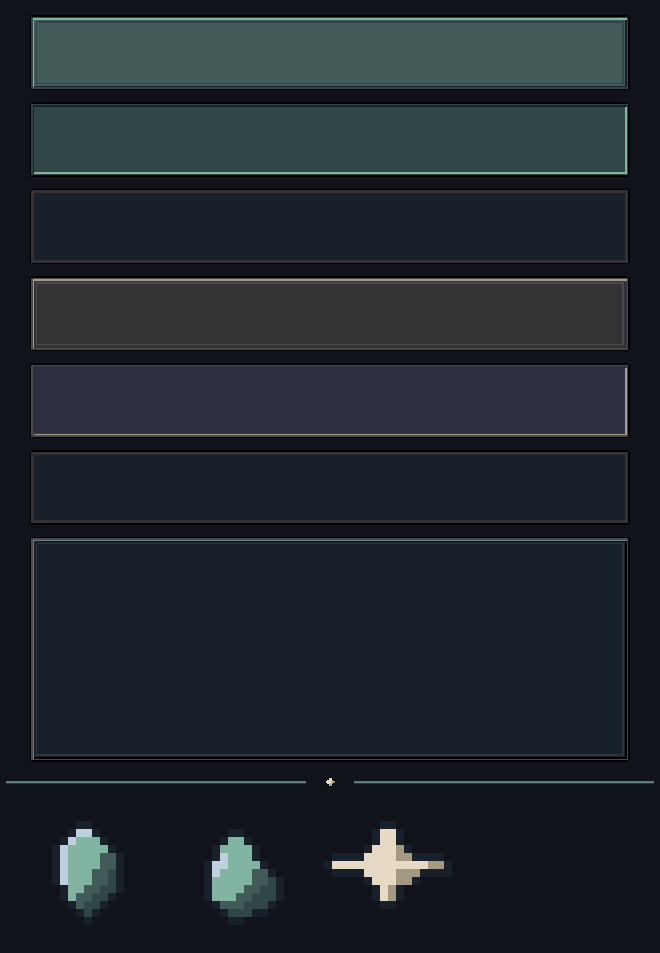
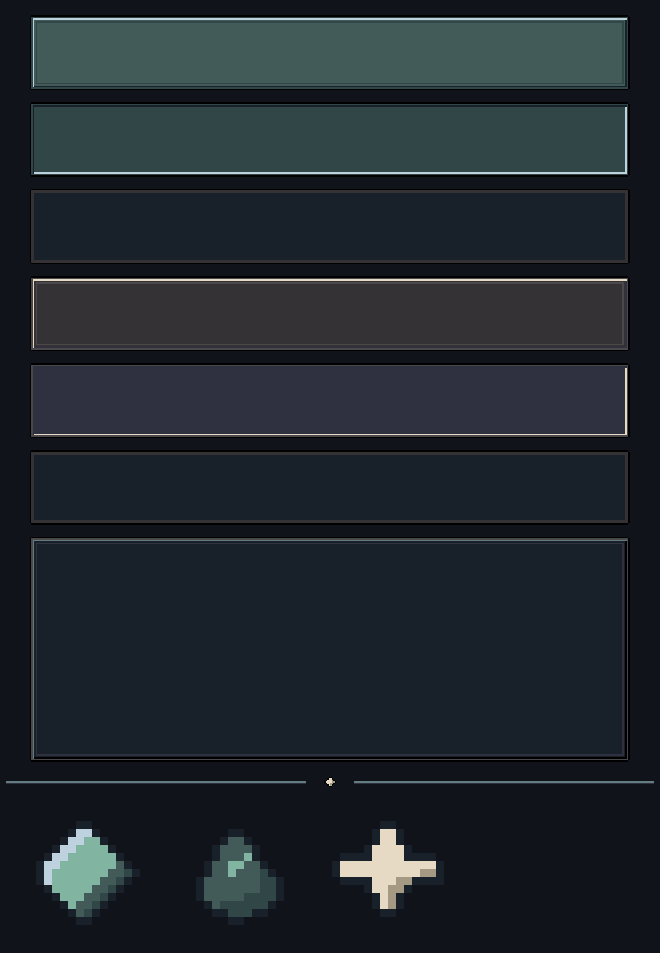
art: ui_kit candidato v001b com ícones distintos e mais contraste

diff --git a/tools/art/build_ui_kit.py b/tools/art/build_ui_kit.py
@@ -60,13 +60,13 @@ DISABLED = dict(outline=BLACK, ring="#353235", hi="#353235", sh="#353235", fill=
 
 BUTTONS = {
     "button_primary": {
-        "normal": dict(outline=BLACK, ring="#314646", hi="#81b5a2", sh="#182029", fill="#425a58", inner="#314646"),
-        "pressed": dict(outline=BLACK, ring="#314646", hi="#182029", sh="#81b5a2", fill="#314646", inner=None),
+        "normal": dict(outline=BLACK, ring="#314646", hi="#bdd2de", sh="#182029", fill="#425a58", inner="#314646"),
+        "pressed": dict(outline=BLACK, ring="#314646", hi="#182029", sh="#bdd2de", fill="#314646", inner=None),
         "disabled": DISABLED,
     },
     "button_secondary": {
-        "normal": dict(outline=BLACK, ring="#4a484a", hi="#a49983", sh="#2f3140", fill="#353235", inner="#4a484a"),
-        "pressed": dict(outline=BLACK, ring="#4a484a", hi="#2f3140", sh="#a49983", fill="#2f3140", inner=None),
+        "normal": dict(outline=BLACK, ring="#4a484a", hi="#e6dac5", sh="#2f3140", fill="#353235", inner="#4a484a"),
+        "pressed": dict(outline=BLACK, ring="#4a484a", hi="#2f3140", sh="#e6dac5", fill="#2f3140", inner=None),
         "disabled": DISABLED,
     },
 }
@@ -102,56 +102,59 @@ def divider() -> Image.Image:
 
 ICON_COLORS = {"o": "#182029", "a": "#bdd2de", "b": "#81b5a2", "c": "#425a58", "d": "#314646", "w": "#e6dac5", "g": "#a49983"}
 ICONS = {
+    # Fragmento: losango claro e brilhante (predomina a/b).
     "icon_fragment": [
         "................",
         ".......oo.......",
         "......oaao......",
-        ".....oabbbo.....",
-        "....oabbbbbo....",
-        "....oabbbbcco...",
-        "....oabbbbcco...",
-        "....oabbbccdo...",
-        "....oabbbccdo...",
-        ".....obbccddo...",
-        ".....obccddo....",
-        "......ocddo.....",
-        ".......odo......",
-        "........o.......",
+        ".....oaabbo.....",
+        "....oaabbbbo....",
+        "...oaabbbbbbo...",
+        "..oaabbbbbbbco..",
+        "..oabbbbbbbccdo.",
+        "..oabbbbbbccdo..",
+        "...obbbbbccdo...",
+        "....obbbccdo....",
+        ".....obccdo.....",
+        "......ocdo......",
+        ".......oo.......",
         "................",
         "................",
     ],
+    # Resíduo: gota escura e opaca (predomina c/d), com um único brilho.
     "icon_residue": [
         "................",
         "................",
         ".......oo.......",
-        "......obbo......",
-        ".....obbbbo.....",
-        ".....oabbbo.....",
-        "....oaabbbbo....",
-        "....oabbbbcco...",
-        "....obbbbbccdo..",
-        "....obbbbccddo..",
-        "....obbbccdddo..",
-        ".....occcdddo...",
-        "......odddoo....",
+        "......occo......",
+        ".....occcco.....",
+        ".....occcbo.....",
+        "....occbbcco....",
+        "....occbcccdo...",
+        "...occcccccddo..",
+        "...occcccccddo..",
+        "...occcccddddo..",
+        "....ocddddddo...",
+        ".....oodddoo....",
         ".......oo.......",
         "................",
         "................",
     ],
+    # XP: estrela de quatro pontas em tom de osso.
     "icon_xp": [
         "................",
         ".......oo.......",
         "......owwo......",
         "......owwo......",
-        ".....owwwgo.....",
-        ".oooowwwwggoooo.",
-        "owwwwwwwwwwwwggo",
-        ".oooowwwwgggoooo"[:16],
-        ".....owwwggo....",
+        ".....owwwwo.....",
+        "..oooowwwwoooo..",
+        ".owwwwwwwwwwwwo.",
+        ".owwwwwwwwwwggo.",
+        "..oooowwwggoooo.",
+        ".....owwggo.....",
         "......owgo......",
         "......owgo......",
         ".......oo.......",
-        "................",
         "................",
         "................",
         "................",
